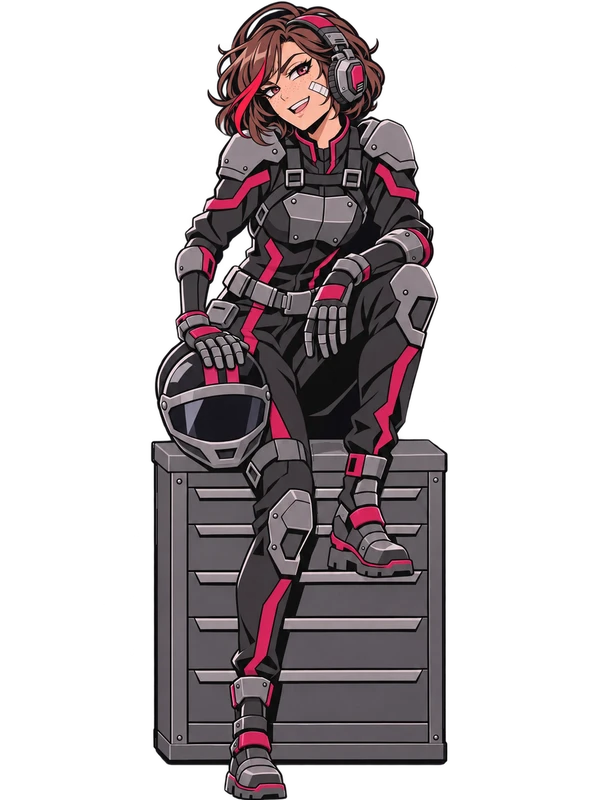
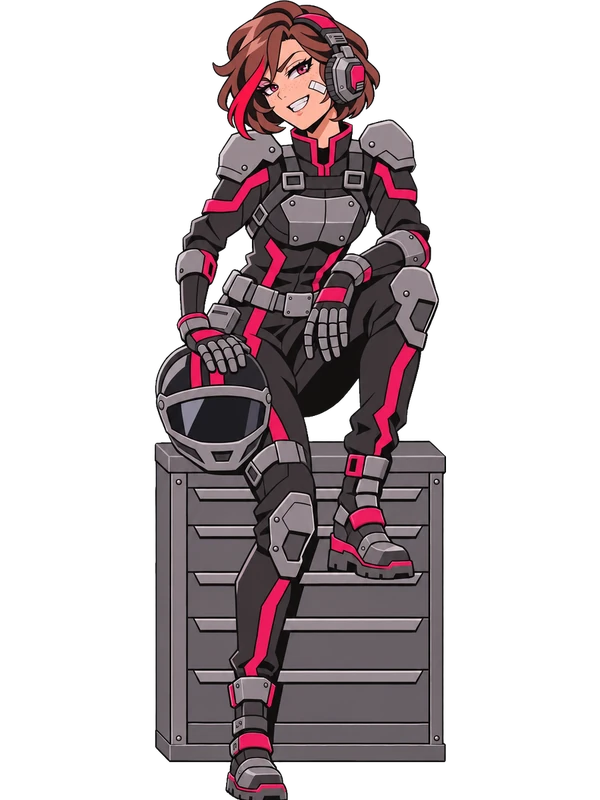
Page COILBREAKER : Elys et vignette d'après les fiches de modèle (capsule A)

Changed region(s): [[0.24, 0.0, 0.75, 1.0]]

diff --git a/coilbreaker/press/index.html b/coilbreaker/press/index.html
@@ -89,7 +89,7 @@ footer{padding-block:36px;color:#8ba0a3;font-size:14px;display:flex;flex-wrap:wr
 <a class="button outline" href="../" data-t="demo">The game's page</a>
 </div>
 </div>
-<figure><img src="assets/key-art-16x9.jpg" alt="COILBREAKER key art: an armed snake in a horde of machines" width="1200" height="675"></figure>
+<figure><img src="assets/key-art-16x9.jpg" alt="COILBREAKER key art: an armed snake in a horde of machines, with the pilots Elys and Freya" width="1200" height="675"></figure>
 </div></div>
 
 <section id="facts"><div class="wrap cols">

diff --git a/docs/JOURNAL.md b/docs/JOURNAL.md
@@ -1,3 +1,10 @@
+## 2026-11-09 — Page COILBREAKER en ligne, dessins d'après les fiches de modèle
+
+- Elys : « Ok, tu peux changer la page du site. Oublies pas de bien mettre à jour la vignette sur la page principale. » La branche `draft/coilbreaker-demo-2026-11-06` est fusionnée dans `main` (avance rapide) et publiée.
+- Elys en tête de page : nouveau portrait du jeu (`elys-pilote.webp`). Vignette de l'accueil et image de partage (`share.jpg`), image clé du kit presse : capsule A, Elys et Freya (choix d'Elys « A »).
+- Recettes et sources : `assets/site/README-demo-2026-11-06.md`, `coilbreaker/assets/PROVENANCE.json`. Aperçus : `E:/Dev/GameDev/_atelier/COILBREAKER/2026-11-09-site-fiches/`.
+- Reste : la capture de l'écran des pilotes (`screen-06`) et le ZIP du kit presse (capsules E) montrent encore les anciens dessins ; à refaire quand le PC d'Elys est libre.
+
 ## 2026-11-06 — Médias de la refonte graphique D dans le brouillon
 
 - Page COILBREAKER : dix captures de la galerie Steam en rendu D (FR/EN, WebP 1920 px et vignettes 960 px), huit dans la galerie, la pose de la Cloueuse dans « La démo Steam » ; bande-annonce publicitaire de 63 s réencodée en H.264 1080p (29,8 Mo par langue) avec une affiche ; logo du 5 nov. ; `share.jpg` et l'en-tête Steam tirés des capsules E.

diff --git a/assets/site/README-demo-2026-11-06.md b/assets/site/README-demo-2026-11-06.md
@@ -34,3 +34,9 @@ Après l'audit du 8 nov. (`_atelier/COILBREAKER/2026-11-08-audit-site/`) et la m
 Les captures 02, 03, 04 et 08 montrent encore les anciennes explosions et Tomás : elles seront remplacées par la recette ci-dessus une fois la galerie refilmée. `Barlow-*.ttf` de `coilbreaker/assets/` ne sert plus à la page (le kit presse a ses propres copies).
 
 Aperçu sans fenêtre : `node assets/site/apercu-coilbreaker.cjs <dossier>` (1440, 820 et 390 px).
+
+## 9 nov. 2026 : dessins d'après les fiches de modèle
+
+- `coilbreaker/assets/share.jpg` (vignette de l'accueil et image de partage) et `press/assets/key-art-16x9.jpg` viennent maintenant de la capsule A (Elys et Freya), choix d'Elys : `_atelier/COILBREAKER/2026-11-09-vitrine/capsules/final/A/main.png`, centre recadré. `update-coilbreaker-demo.cjs` les referait d'après les capsules E : ne pas le relancer sans changer sa source.
+- `coilbreaker/assets/elys-pilote.webp` : nouveau portrait d'Elys du jeu (commit COILBREAKER `0de27198`).
+- La capture de l'écran des pilotes (`screen-06`) montre encore l'ancien dessin d'Elys : à refilmer quand le PC d'Elys est libre.
